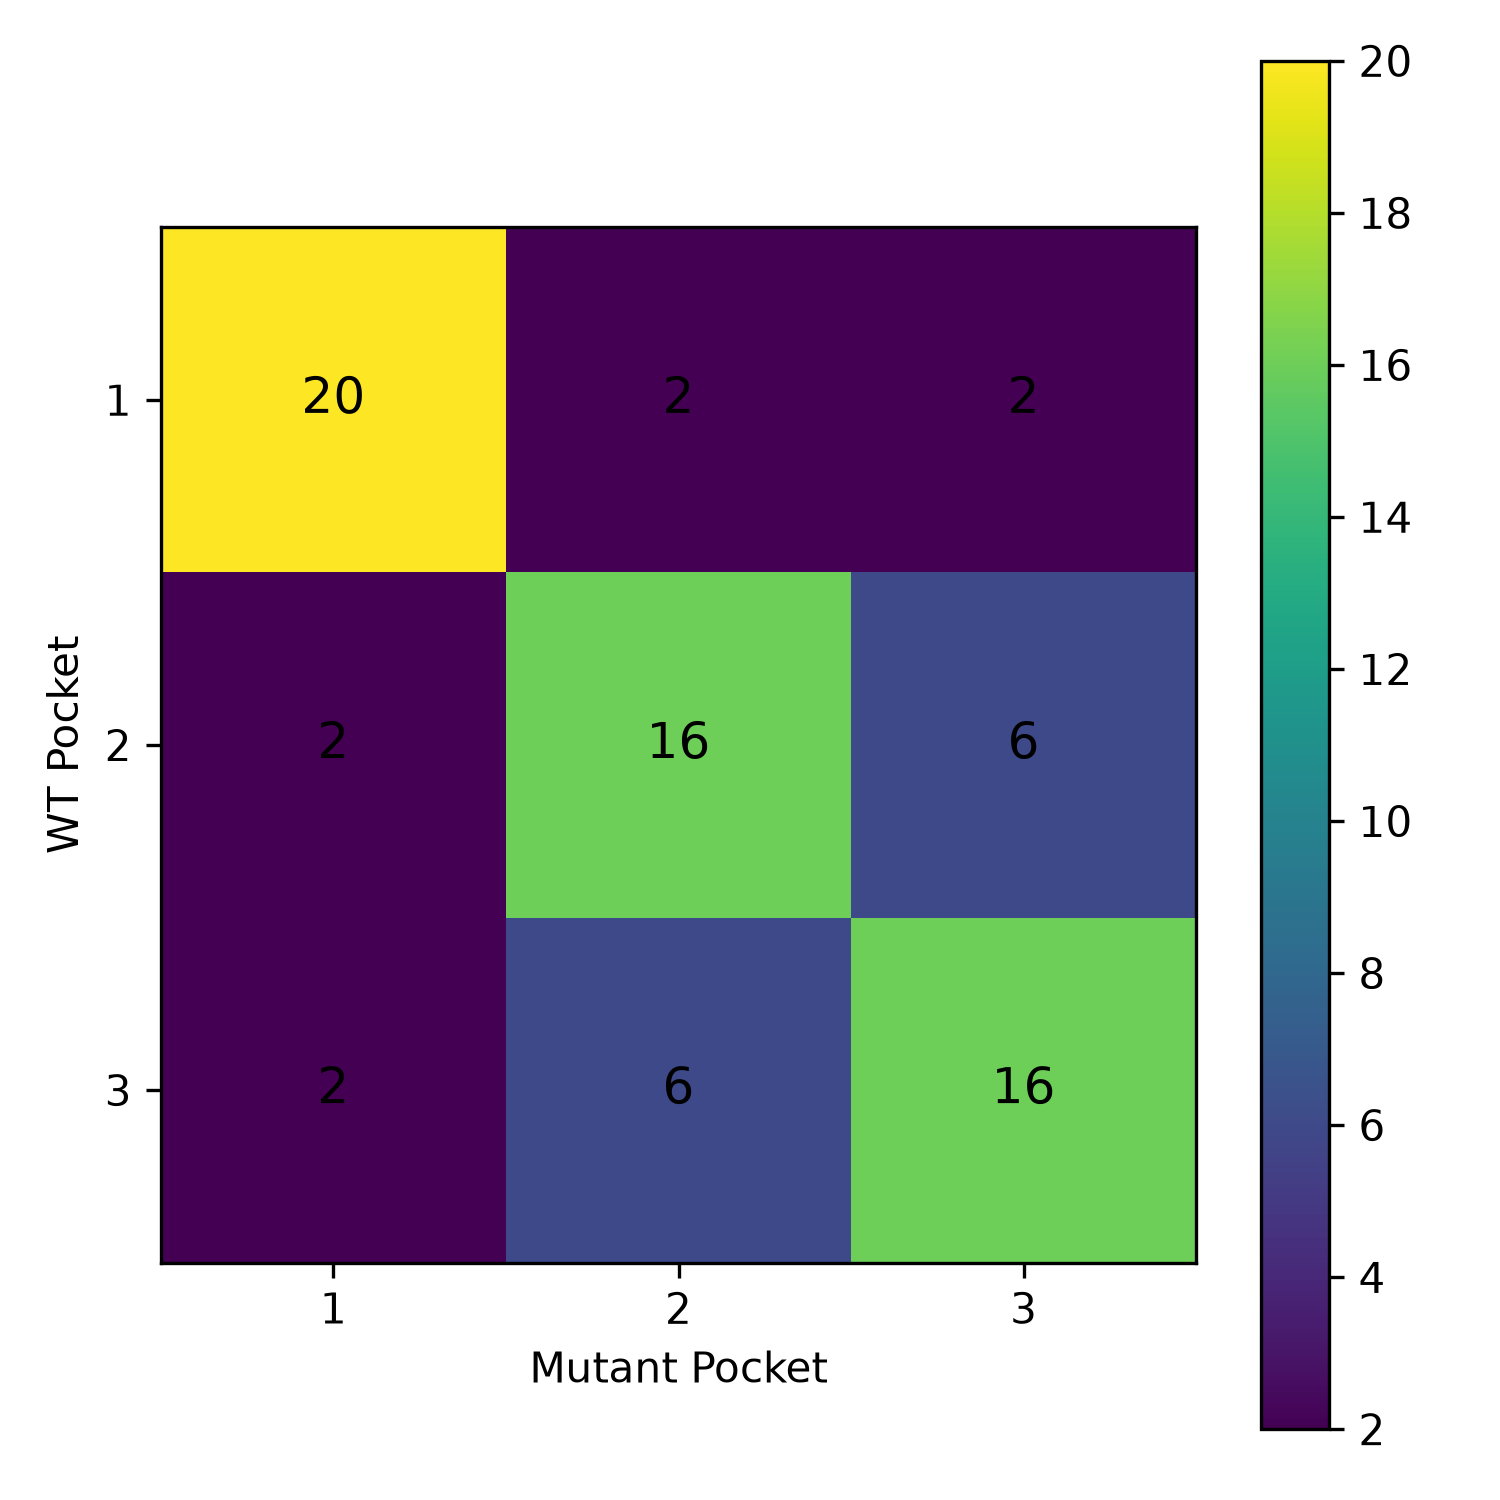
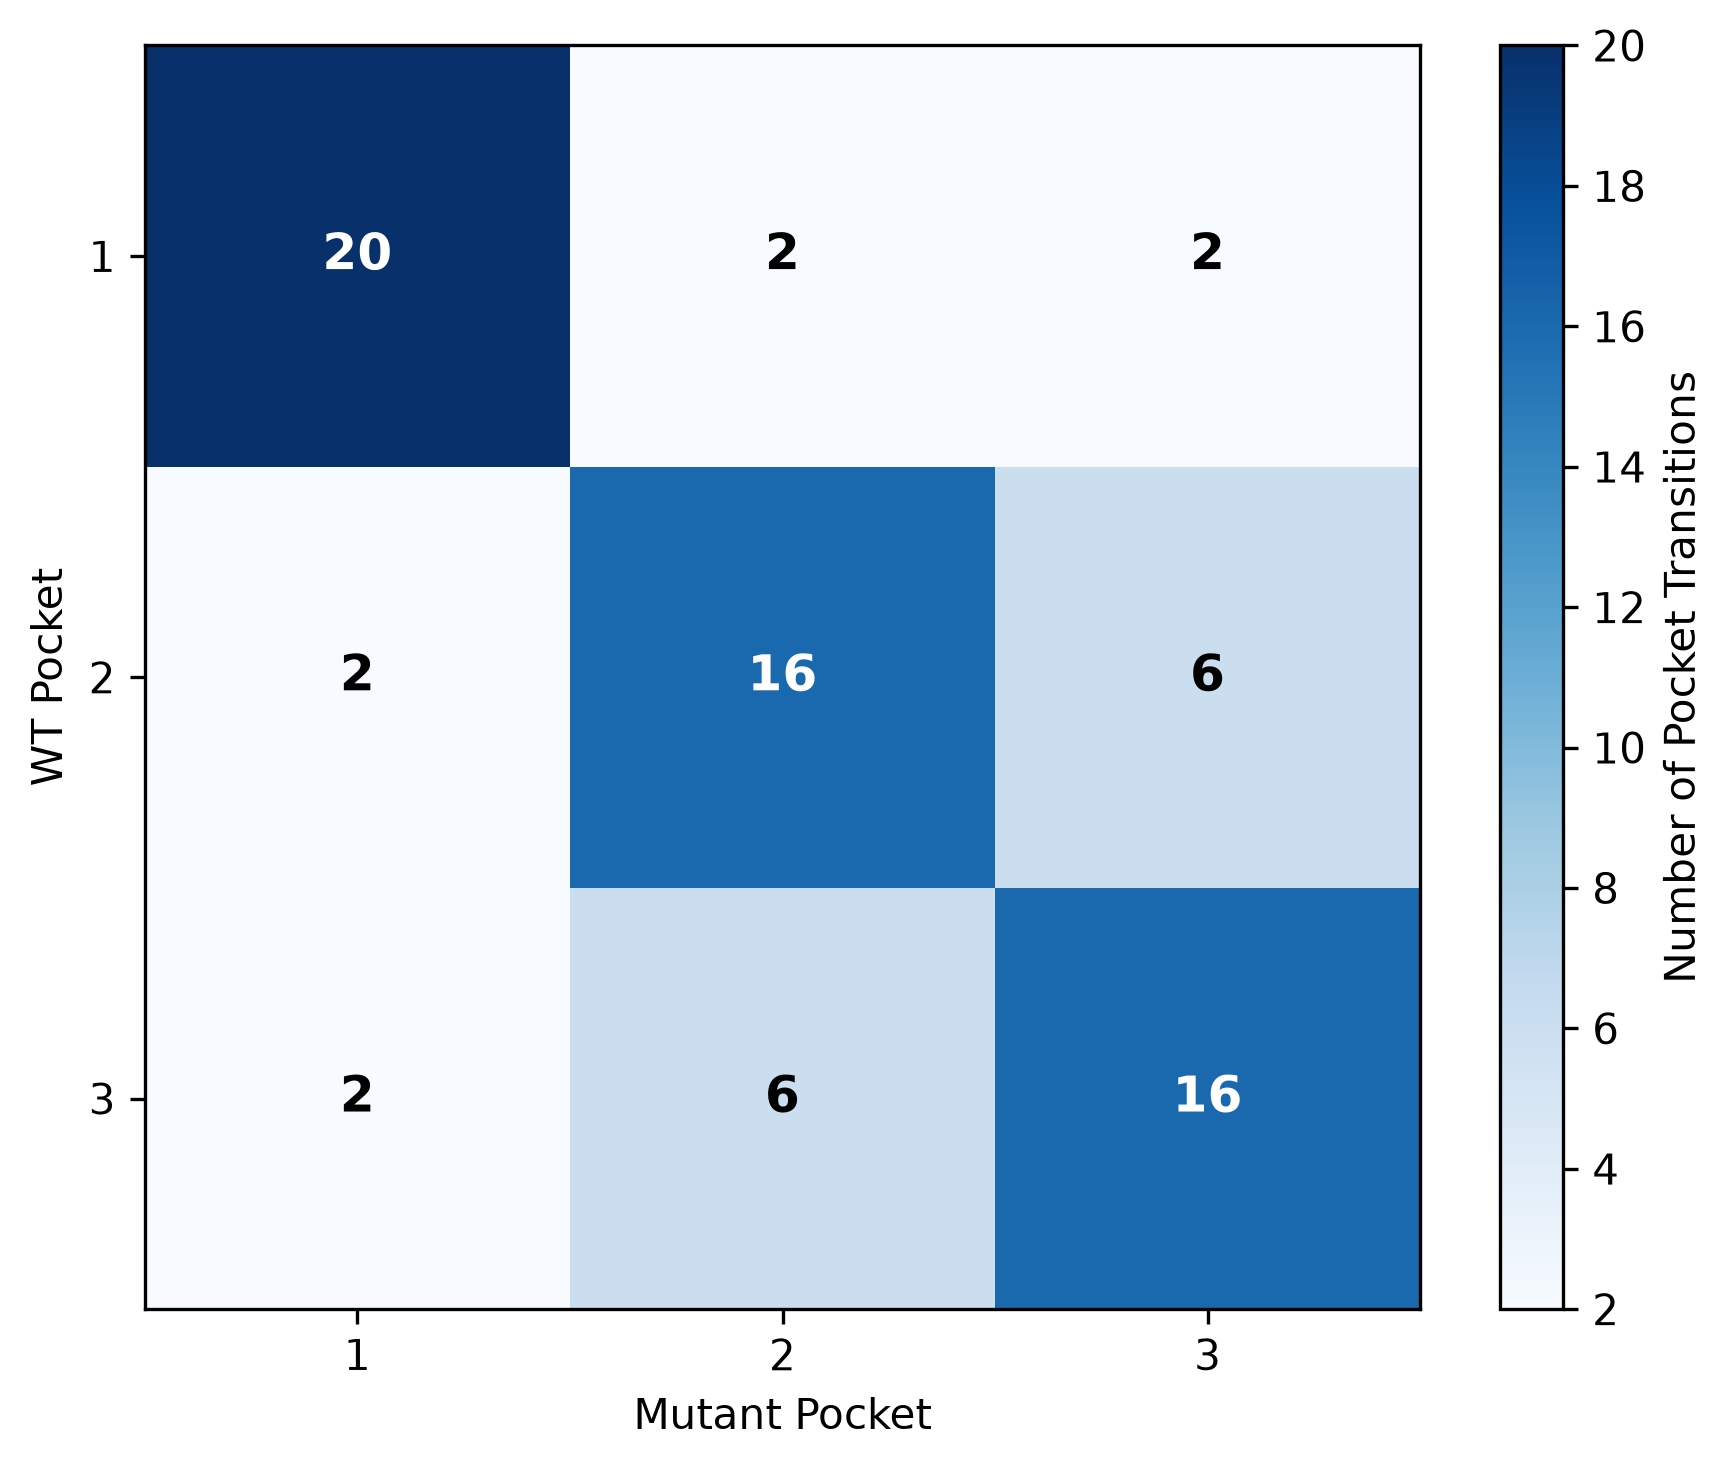
adjusting heatmap and renaming files

diff --git a/Scripts/utils/plotting_utils.py b/Scripts/utils/plotting_utils.py
@@ -206,59 +206,79 @@ def plot_mutation_barplot(
 # Pocket transition heatmap
 # ==========================================================
 
-def plot_transition_heatmap(
-    matrix,
-    output_dir
-):
+def plot_transition_heatmap(matrix, output_dir):
 
-    plt.figure(
-        figsize=(5, 5)
+    plt.figure(figsize=(6, 5))
+
+    # ------------------------------------------------------
+    # Heatmap
+    # ------------------------------------------------------
+
+    im = plt.imshow(
+        matrix.values,
+        cmap="Blues",
+        aspect="auto",
     )
 
-    plt.imshow(
-        matrix.values
-    )
+    # ------------------------------------------------------
+    # Axes
+    # ------------------------------------------------------
 
     plt.xticks(
-        range(
-            len(matrix.columns)
-        ),
+        range(len(matrix.columns)),
         matrix.columns,
     )
 
     plt.yticks(
-        range(
-            len(matrix.index)
-        ),
+        range(len(matrix.index)),
         matrix.index,
     )
 
-    plt.xlabel(
-        "Mutant Pocket"
-    )
+    plt.xlabel("Mutant Pocket")
+    plt.ylabel("WT Pocket")
 
-    plt.ylabel(
-        "WT Pocket"
-    )
+    # ------------------------------------------------------
+    # Cell annotations
+    # ------------------------------------------------------
 
-    for i in range(
-        matrix.shape[0]
-    ):
+    max_value = matrix.values.max()
 
-        for j in range(
-            matrix.shape[1]
-        ):
+    for i in range(matrix.shape[0]):
+
+        for j in range(matrix.shape[1]):
+
+            value = matrix.iloc[i, j]
+
+            # Choose text color according to cell intensity
+            if value > max_value * 0.5:
+                text_color = "white"
+            else:
+                text_color = "black"
 
             plt.text(
                 j,
                 i,
-                matrix.iloc[i, j],
+                f"{value:.0f}",
                 ha="center",
                 va="center",
                 fontsize=12,
+                fontweight="bold",
+                color=text_color,
             )
 
-    plt.colorbar()
+    # ------------------------------------------------------
+    # Colorbar
+    # ------------------------------------------------------
+
+    cbar = plt.colorbar(im)
+
+    cbar.set_label(
+        "Number of Pocket Transitions"
+    )
+
+    # ------------------------------------------------------
+    # Layout
+    # ------------------------------------------------------
 
     plt.tight_layout()
 
@@ -268,6 +288,7 @@ def plot_transition_heatmap(
             "pocket_transition_heatmap.png"
         ),
         dpi=300,
+        bbox_inches="tight",
     )
 
     plt.close()

diff --git a/Scripts/02_match_pockets.py b/Scripts/02_match_pockets.py
@@ -1507,3 +1507,20 @@ print(
 )
 
 print("=" * 70)
+
+dist = matched_df["Distance"]
+
+print("\nPocket Matching Statistics")
+print("---------------------------")
+print(f"Number of matches: {len(dist)}")
+print(f"Mean distance:     {dist.mean():.2f} Å")
+print(f"Median distance:   {dist.median():.2f} Å")
+print(f"Std distance:      {dist.std():.2f} Å")
+print(f"Min distance:      {dist.min():.2f} Å")
+print(f"Max distance:      {dist.max():.2f} Å")
+
+print(f"≤1 Å : {(dist <= 1).mean()*100:.2f}%")
+print(f"≤2 Å : {(dist <= 2).mean()*100:.2f}%")
+print(f"≤3 Å : {(dist <= 3).mean()*100:.2f}%")
+print(f"≤5 Å : {(dist <= 5).mean()*100:.2f}%")
+print(f"≤5 Å : {(dist <= 6).mean()*100:.2f}%")
